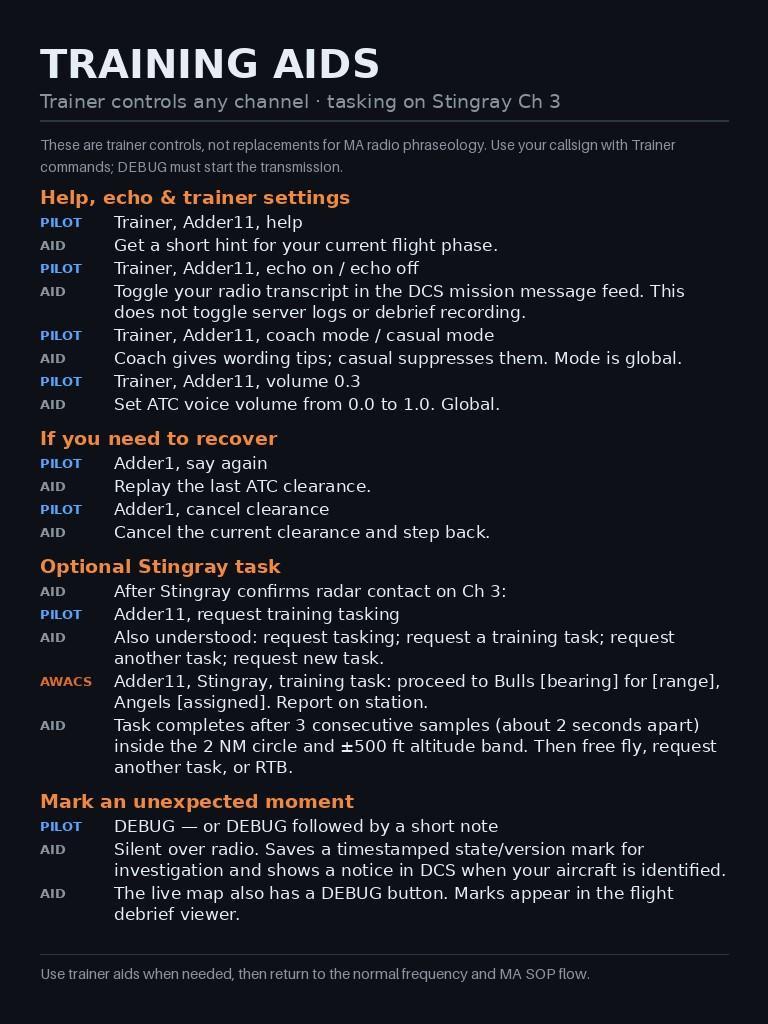
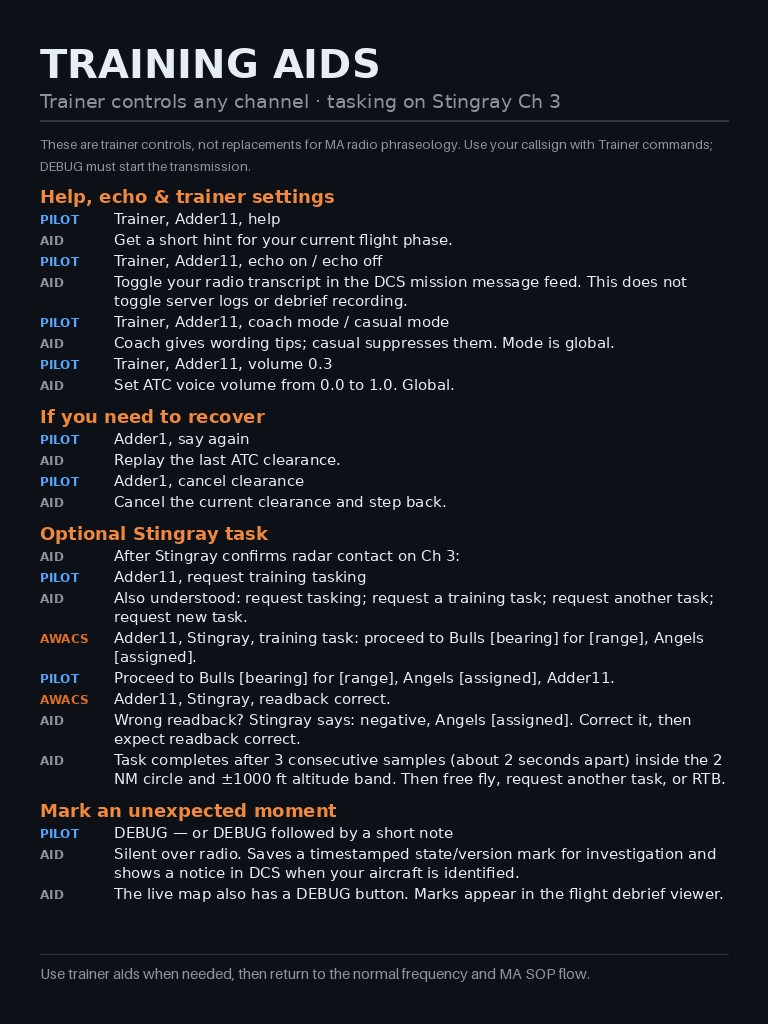
Details in training tasking

Changed region(s): [[0.0312, 0.125, 0.9375, 0.9062], [0.8125, 0.3438, 0.875, 0.375]]

diff --git a/atc/web/map.js b/atc/web/map.js
@@ -644,6 +644,7 @@ function drawBullseyeCalls(aircraft, af) {
       // (for example, "proceed to Bulls 131 for 24") but are instructions,
       // not a marking call.
       if (c.kind !== 'rx') continue;
+      if (/\bproceed\s+to\b/i.test(c.text || '')) continue;
       const call = parsePictureCall(c.text, af, c.lat, c.lon);
       if (!call) continue;
       const bearings = [call.bearing];

diff --git a/atc/brain.py b/atc/brain.py
@@ -3914,9 +3914,19 @@ class AtcBrain:
             pilot.stingray_training_tasks)
             if not task["completed"] and not task["abandoned"]), None)
         if (active_task is not None
-                and not active_task.get("readback_complete", False)
-                and re.search(r"\b(proceed|bulls?|bull'?s?eye|booth|angels)\b",
+                and re.search(r"\bproceed\s+to\s+(?:bulls?|bull'?s?eye|booth)\b",
                               low)):
+            # STT/debrief can duplicate a task readback after it has already
+            # been accepted. Keep that instruction-shaped repeat out of the
+            # picture-call verifier, which would otherwise challenge it as an
+            # incorrect live Bullseye report.
+            if active_task.get("readback_complete", False):
+                return ""
+            return self._stingray_training_readback(
+                callsign, pilot, active_task, low)
+        if (active_task is not None
+                and not active_task.get("readback_complete", False)
+                and re.search(r"\b(bulls?|bull'?s?eye|booth|angels)\b", low)):
             return self._stingray_training_readback(
                 callsign, pilot, active_task, low)
 
@@ -4714,13 +4724,10 @@ class AtcBrain:
         item = self._readback_item(normalized, clearance)
         if item is None:
             pilot.readback_pending = False
-            corrected = task.get("readback_fails", 0) > 0
             task["readback_fails"] = 0
             task["readback_complete"] = True
-            if corrected:
-                return self._say("readback_correct", callsign,
-                                 agency=self.stingray_short)
-            return ""
+            return self._say("readback_correct", callsign,
+                             agency=self.stingray_short)
         task["readback_fails"] = task.get("readback_fails", 0) + 1
         exhausted = task["readback_fails"] > self.readback_retries
         reply = self._readback_failure_reply(

diff --git a/scripts/kneeboard.py b/scripts/kneeboard.py
@@ -408,10 +408,14 @@ PAGES = [
                 ("AID", "Also understood: request tasking; request a "
                        "training task; request another task; request new task."),
                 ("AWACS", "Adder11, Stingray, training task: proceed to "
-                         "Bulls [bearing] for [range], Angels [assigned]. "
-                         "Report on station."),
+                         "Bulls [bearing] for [range], Angels [assigned]."),
+                ("P", "Proceed to Bulls [bearing] for [range], Angels "
+                     "[assigned], Adder11."),
+                ("AWACS", "Adder11, Stingray, readback correct."),
+                ("AID", "Wrong readback? Stingray says: negative, Angels "
+                       "[assigned]. Correct it, then expect readback correct."),
                 ("AID", "Task completes after 3 consecutive samples (about "
-                       "2 seconds apart) inside the 2 NM circle and ±500 ft "
+                       "2 seconds apart) inside the 2 NM circle and ±1000 ft "
                        "altitude band. Then free fly, request another task, "
                        "or RTB."),
             ]),

diff --git a/atc/tests/test_brain.py b/atc/tests/test_brain.py
@@ -4323,8 +4323,15 @@ def test_stingray_training_task_accepts_logged_readback(brain, airfield,
     # Observed session STT fused "Bulls 058 for 69" into "booth 058469".
     reply = brain.handle("Proceed to booth 058469, angels 15, Colt 1",
                          controller=Controller.STINGRAY)
-    assert reply == ""
+    assert "readback correct" in reply.lower()
     assert task["readback_complete"]
+
+    # A duplicate transcript with the task figures must remain a task
+    # readback, not be challenged as a live Bullseye position report.
+    duplicate = brain.handle(
+        "Proceed to Bulls 058, 469, Angels 15, Colt 1",
+        controller=Controller.STINGRAY)
+    assert duplicate == ""
 
 
 def test_say_again_after_training_readback_feedback_repeats_task_order(

diff --git a/atc/tests/test_map_server.py b/atc/tests/test_map_server.py
@@ -810,6 +810,7 @@ def _assert_picture_overlay_review_contract(js):
     # ATC tasking can also say "Bulls <bearing> for <range>"; only a pilot
     # transmission (rx) is eligible for the marking-call overlay.
     assert b"if (c.kind !== 'rx') continue;" in draw_calls
+    assert b"proceed\\s+to" in draw_calls
     assert b".setLatLng(" not in draw_calls  # redraw never moves an open popup
     assert b".setLatLng(event.latlng)" in js
     assert b"popup.on('remove'" in js
